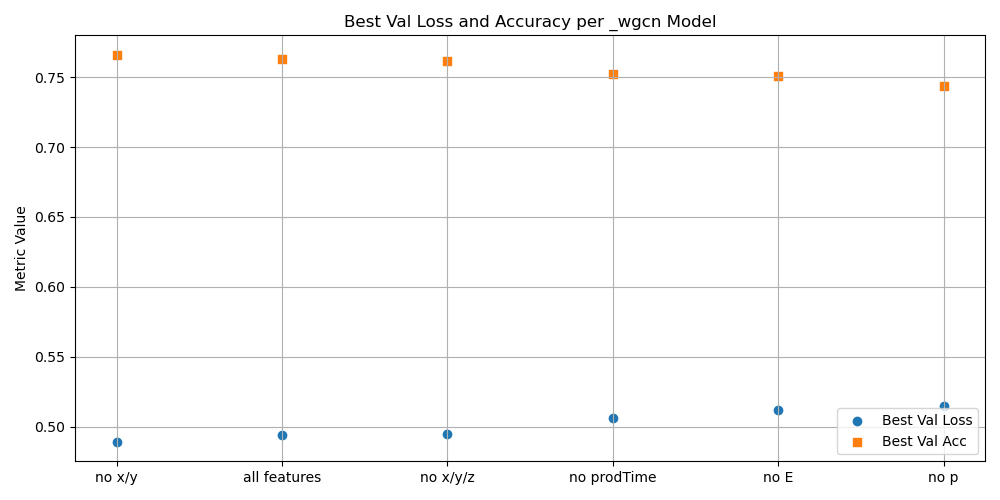
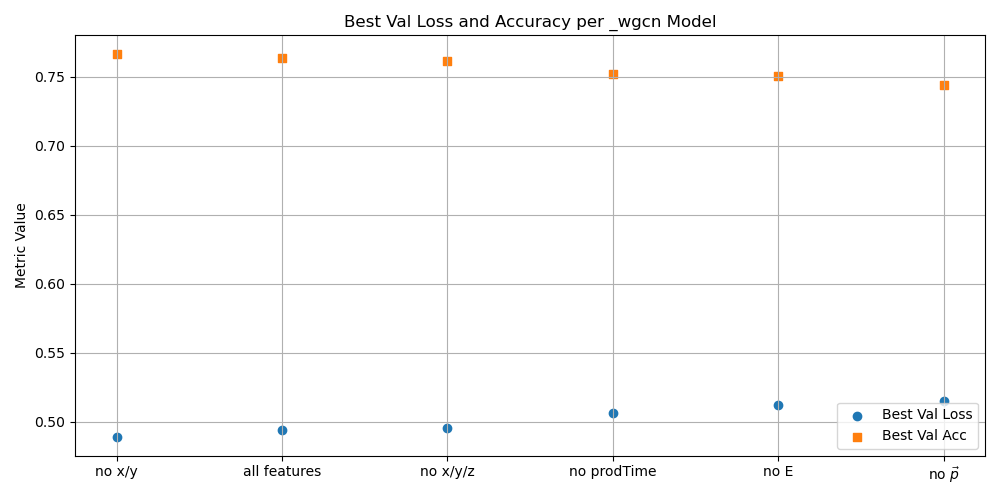
small update

diff --git a/compare_model_feattures.py b/compare_model_feattures.py
@@ -9,7 +9,7 @@ summary = {}
 x_axis_map = {
     "deepset_combined_wgcn": "all features",
     "deepset_combined_wgcn_no_E": "no E",
-    "deepset_combined_wgcn_no_p": "no p",
+    "deepset_combined_wgcn_no_p": r"no $\vec{p}$",
     "deepset_combined_wgcn_no_prodTime": "no prodTime",
     "deepset_combined_wgcn_no_x_y": "no x/y",
     "deepset_combined_wgcn_no_x_y_z": "no x/y/z",
